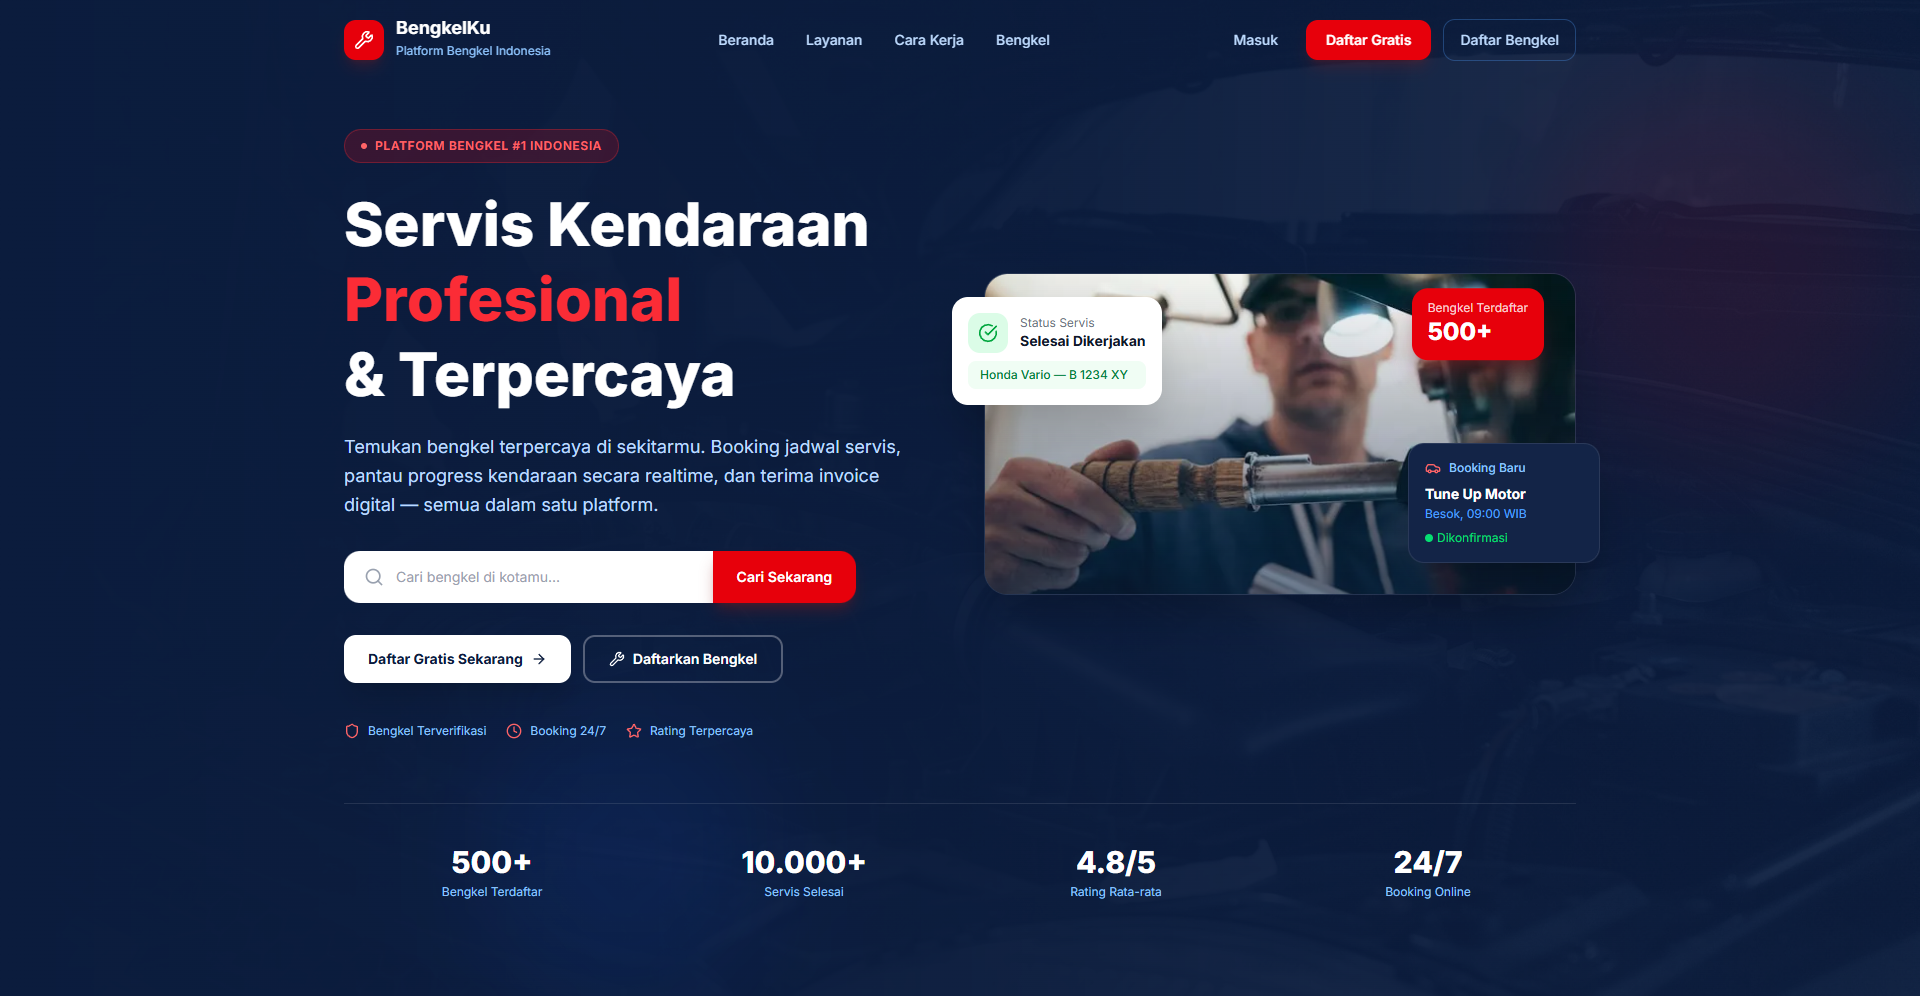
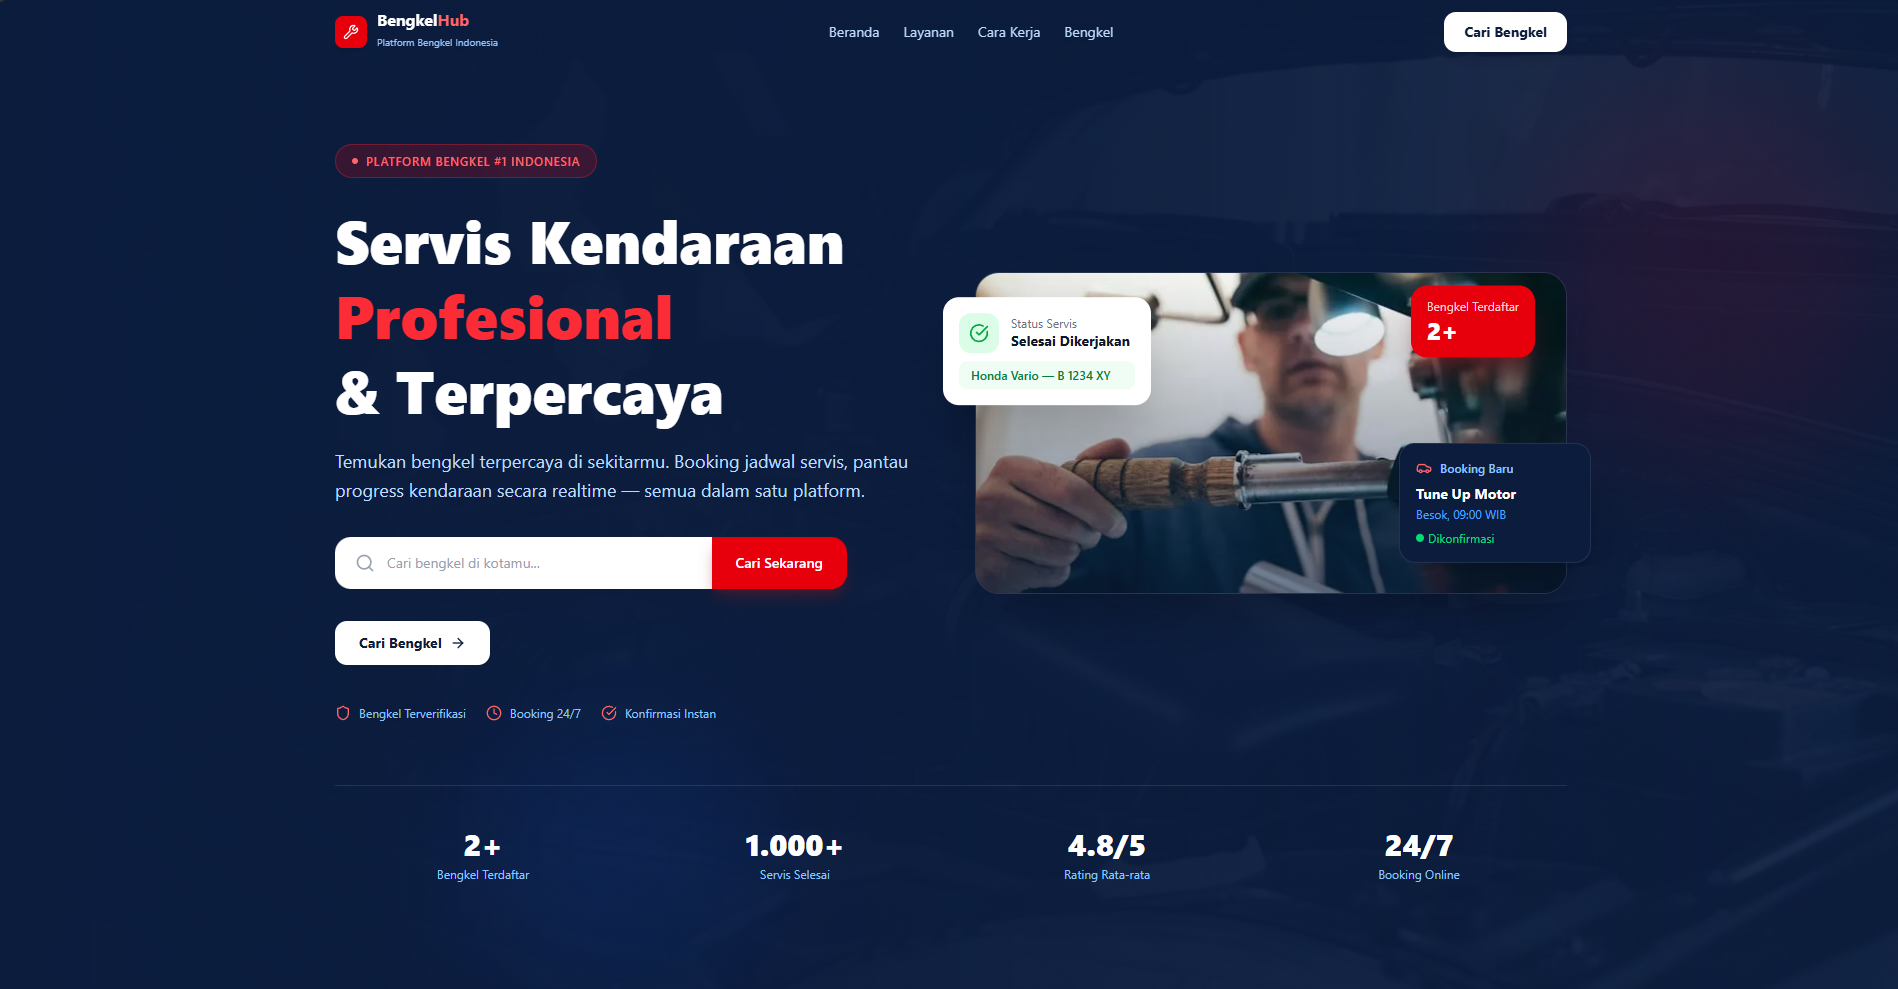
update : update image and link bengkelhub in detail projects

diff --git a/src/data/portfolio.js b/src/data/portfolio.js
@@ -98,7 +98,7 @@ export const projects = [
     image: "/projects/flight.png",
   },
   {
-    id: 6,
+    id: 7,
     slug: "bengkelhub",
     year: "2026",
     title: "BengkelHub",
@@ -106,12 +106,12 @@ export const projects = [
     tags: ["Next.js 15", "TypeScript", "Prisma", "Supabase", "NextAuth"],
     type: "Full Stack",
     link: "https://bengkelhub.naufalandr.my.id/",
-    repo: "https://github.com/naufalnak/saas-workshop",
+    repo: "#",
     featured: true,
     image: "/projects/bengkelhub.png",
   },
   {
-    id: 7,
+    id: 6,
     slug: "jasa-content-writing",
     year: "2025",
     title: "Jasa Content Writing",
